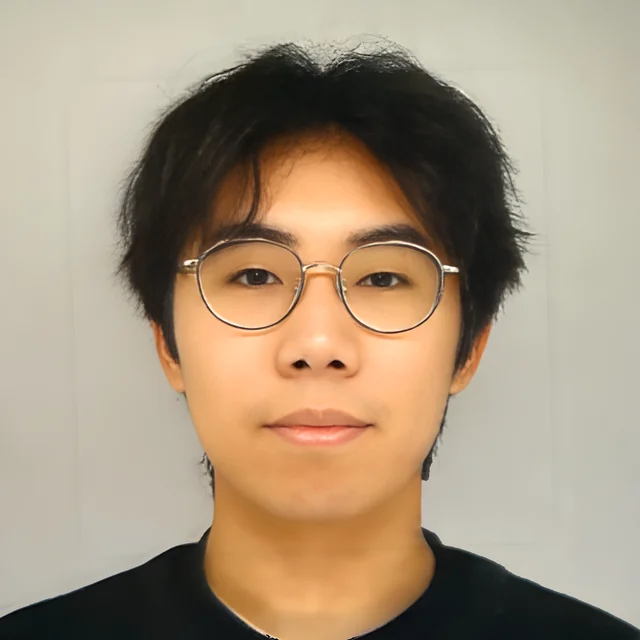
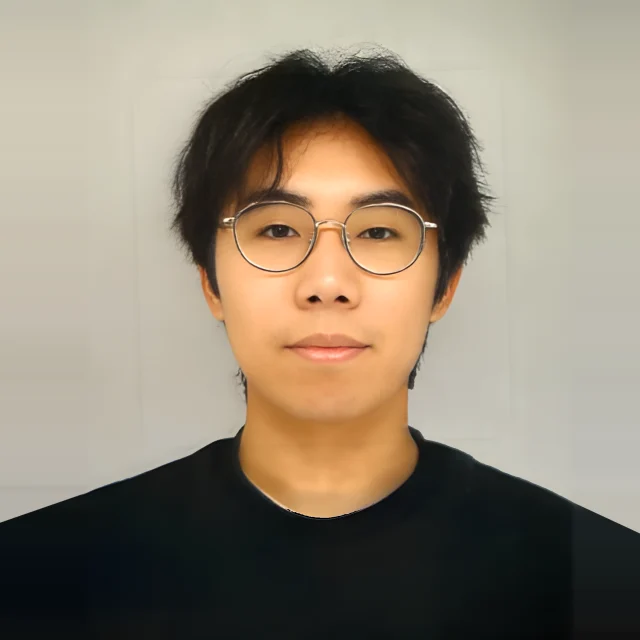
Hero portrait: zoomed out to show more shoulders, 2.5rem in from the right
The square now frames head, shoulders and upper chest; the wall and shirt
were extended sideways (shoulder lines continued at their measured slopes,
24px cross-fade at the joints) because the original photo is too narrow.

diff --git a/assets/css/site.css b/assets/css/site.css
@@ -310,6 +310,7 @@ summary:focus-visible {
   width: 9.875rem;
   height: 9.875rem;
   margin-top: .35rem;
+  margin-right: 2.5rem;                 /* a little in from the right edge of the column */
   border: 1px solid var(--border);
   border-radius: var(--radius-md);
   object-fit: cover;
@@ -777,6 +778,7 @@ summary:focus-visible {
     width: 7.5rem;
     height: 7.5rem;
     margin-top: 0;
+    margin-right: 0;
   }
 
   .news-list { gap: .75rem; }
